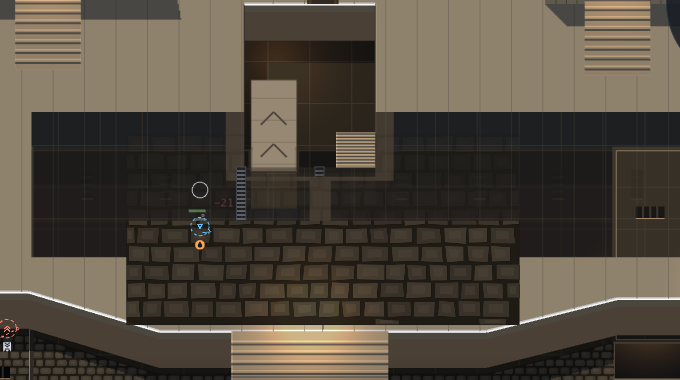
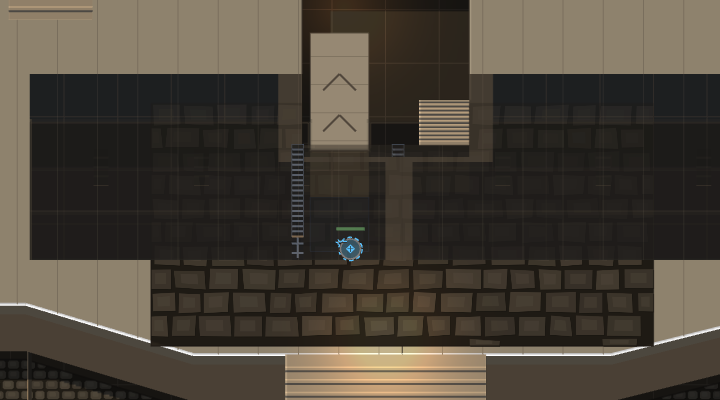
#3406: lift raised paving's tunnel cut by its elevation, as decks do
Raised paving draws elevationOf(layer, ground) north of its footprint,
so its rows that far south of a tunnel cover draw over the tunnel.
pavingTunnelPieces takes that lift and extends each cover's bottom by
it (the rule liftedCovers applies to decks), so the plaza's south band
fades too and meets the faded deck with no seam. Re-shot at x 1250.

diff --git a/apps/web/src/render/paving-painter.test.ts b/apps/web/src/render/paving-painter.test.ts
@@ -4,6 +4,7 @@ import { describe, expect, it } from "vitest";
 
 import { BIOME, pavingPalette } from "./arena-palette.js";
 import { tunnelCover, tunnelsHolding } from "./layer-surfaces.js";
+import { elevationOf } from "./render-order.js";
 import {
   MAX_PAVING_STONES,
   PAVING_EDGE,
@@ -175,12 +176,12 @@ describe("pavingTunnelPieces (#3272)", () => {
 
   it("makes none for a tunnel the paving misses", () => {
     const covers = [{ tunnel: 0, layer: 0, outline: box(900, 900, 1000, 1000) }];
-    expect(pavingTunnelPieces(drawing, 0, size, covers)).toEqual([]);
+    expect(pavingTunnelPieces(drawing, 0, 0, size, covers)).toEqual([]);
   });
 
   it("cuts only the overlap, in whole pixels of the paving's texture", () => {
     const covers = [{ tunnel: 3, layer: 0, outline: box(300.2, 150, 900, 200) }];
-    expect(pavingTunnelPieces(drawing, 0, size, covers)).toEqual([
+    expect(pavingTunnelPieces(drawing, 0, 0, size, covers)).toEqual([
       {
         tunnel: 3,
         pixels: {
@@ -199,25 +200,28 @@ describe("pavingTunnelPieces (#3272)", () => {
       { tunnel: 1, layer: 1, outline: box(200, 130, 240, 150) },
       { tunnel: 2, layer: 0, outline: box(300, 140, 340, 160) },
     ];
-    expect(pavingTunnelPieces(drawing, 0, size, covers).map(({ tunnel }) => tunnel)).toEqual([
+    expect(pavingTunnelPieces(drawing, 0, 0, size, covers).map(({ tunnel }) => tunnel)).toEqual([
       0, 2,
     ]);
   });
 
   // Sandstone Steps' plaza is flagstones on a deck (layer 2) over a
   // ground-layer tunnel cover: it stayed opaque while the deck faded.
-  it("makes pieces for paving raised above the cover's layer (#3406)", () => {
+  it("makes pieces for paving raised above the cover's layer, reaching its lift further south (#3406)", () => {
     const covers = [
       { tunnel: 0, layer: 0, outline: box(120, 130, 160, 150) },
       { tunnel: 1, layer: 1, outline: box(200, 130, 240, 150) },
     ];
-    const ground = pavingTunnelPieces(drawing, 0, size, covers.slice(0, 1));
-    const raised = pavingTunnelPieces(drawing, 2, size, covers);
+    const ground = pavingTunnelPieces(drawing, 0, 0, size, covers.slice(0, 1));
+    const raised = pavingTunnelPieces(drawing, 2, 10, size, covers);
     expect(raised.map(({ tunnel }) => tunnel)).toEqual([0, 1]);
-    expect(raised[0]).toEqual(ground[0]);
+    expect(raised[0]).toEqual({
+      tunnel: 0,
+      pixels: { ...ground[0]?.pixels, height: (ground[0]?.pixels.height ?? 0) + 10 * size.scale },
+    });
   });
 
-  it("cuts Sandstone Steps' plaza over under-pass-north, as the scene builds its covers (#3406)", async () => {
+  it("cuts Sandstone Steps' plaza over under-pass-north down to the cover's bottom plus its lift (#3406)", async () => {
     const { mapStructure } = await import("../net/maps.js");
     const { structure } = mapStructure("sandstone-steps");
     const covers = structure.tunnels.flatMap((tunnel, at) =>
@@ -238,16 +242,24 @@ describe("pavingTunnelPieces (#3272)", () => {
     }
     // under-pass-north, under the plaza.
     const [underPass] = tunnelsHolding(structure, { x: 1250, y: 1020 }, structure.ground - 1);
-    const tunnels = pavingTunnelPieces(plazaDrawing, plaza.layer, plazaSize, covers).map(
-      ({ tunnel }) => tunnel,
+    const lift = elevationOf(plaza.layer, structure.ground);
+    const pieces = pavingTunnelPieces(plazaDrawing, plaza.layer, lift, plazaSize, covers).filter(
+      ({ tunnel }) => tunnel === underPass,
     );
-    expect(plaza.layer).toBeGreaterThan(structure.ground);
-    expect(underPass).toBeDefined();
-    expect(tunnels).toContain(underPass);
+    const coverBottom = Math.max(
+      ...covers
+        .filter(({ tunnel }) => tunnel === underPass)
+        .flatMap(({ outline }) => outline.map((corner) => corner.y)),
+    );
+    expect(lift).toBeGreaterThan(0);
+    expect(pieces.length).toBeGreaterThan(0);
+    expect(Math.max(...pieces.map(({ pixels }) => pixels.top + pixels.height))).toBe(
+      Math.round((coverBottom + lift - plazaDrawing.bounds.y) * plazaSize.scale),
+    );
   });
 
   it("cuts each piece out of the paving, and paints it on the same pixel grid", () => {
-    const [piece] = pavingTunnelPieces(drawing, 0, size, [
+    const [piece] = pavingTunnelPieces(drawing, 0, 0, size, [
       { tunnel: 0, layer: 0, outline: box(150, 120, 260, 180) },
     ]);
     if (piece === undefined) {

diff --git a/apps/web/src/render/paving-painter.ts b/apps/web/src/render/paving-painter.ts
@@ -386,12 +386,15 @@ export interface PavingTunnelPiece {
  * The pieces of a paving on `layer` that lie over the tunnel covers
  * `covers` (#3272): one per cover its texture overlaps on the cover's
  * layer or above it, so paving raised on a deck over a tunnel fades too
- * (#3406), the overlap rounded to the texture's pixels. A cover on a
- * higher layer, or one that misses the paving, makes none.
+ * (#3406), the overlap rounded to the texture's pixels. A paving drawn
+ * `lift` up has each cover reach `lift` further south, as decks do
+ * (`liftedCovers`, #3352): its rows that far south draw over the tunnel.
+ * A cover on a higher layer, or one that misses the paving, makes none.
  */
 export function pavingTunnelPieces(
   drawing: PavingDrawing,
   layer: number,
+  lift: number,
   size: PavingTextureSize,
   covers: readonly {
     readonly tunnel: number;
@@ -402,7 +405,10 @@ export function pavingTunnelPieces(
   return covers
     .filter((cover) => layer >= cover.layer)
     .flatMap((cover) =>
-      pavingPixelsOver(drawing, size, cover).map((pixels) => ({ tunnel: cover.tunnel, pixels })),
+      pavingPixelsOver(drawing, size, cover, lift).map((pixels) => ({
+        tunnel: cover.tunnel,
+        pixels,
+      })),
     );
 }
 
@@ -418,14 +424,15 @@ export function pavingHoles(
 ): PavingPixels[] {
   return holes
     .filter((hole) => hole.layer === layer)
-    .flatMap((hole) => pavingPixelsOver(drawing, size, hole));
+    .flatMap((hole) => pavingPixelsOver(drawing, size, hole, 0));
 }
 
-/** The whole pixels of the texture `area` overlaps: none off it. */
+/** The whole pixels of the texture `area`, its bottom `lift` further south, overlaps: none off it. */
 function pavingPixelsOver(
   drawing: PavingDrawing,
   size: PavingTextureSize,
   area: { readonly outline: readonly Vec2[] },
+  lift: number,
 ): PavingPixels[] {
   if (area.outline.length === 0) {
     return [];
@@ -439,7 +446,7 @@ function pavingPixelsOver(
   const left = pixel(Math.min(...xs), x, width);
   const right = pixel(Math.max(...xs), x, width);
   const top = pixel(Math.min(...ys), y, height);
-  const bottom = pixel(Math.max(...ys), y, height);
+  const bottom = pixel(Math.max(...ys) + lift, y, height);
   return right <= left || bottom <= top
     ? []
     : [{ left, top, width: right - left, height: bottom - top }];

diff --git a/apps/web/src/render/arena-scene.ts b/apps/web/src/render/arena-scene.ts
@@ -4913,7 +4913,13 @@ export class ArenaScene extends Phaser.Scene {
       const x = drawing.bounds.x;
       const y = drawing.bounds.y - elevationOf(paving.layer, structure.ground);
       const depth = renderOrder({ kind: "paving", layer: paving.layer });
-      const pieces = pavingTunnelPieces(drawing, paving.layer, size, covers);
+      const pieces = pavingTunnelPieces(
+        drawing,
+        paving.layer,
+        elevationOf(paving.layer, structure.ground),
+        size,
+        covers,
+      );
       const cut = pavingHoles(drawing, paving.layer, size, holes);
       const image = (
         width: number,
